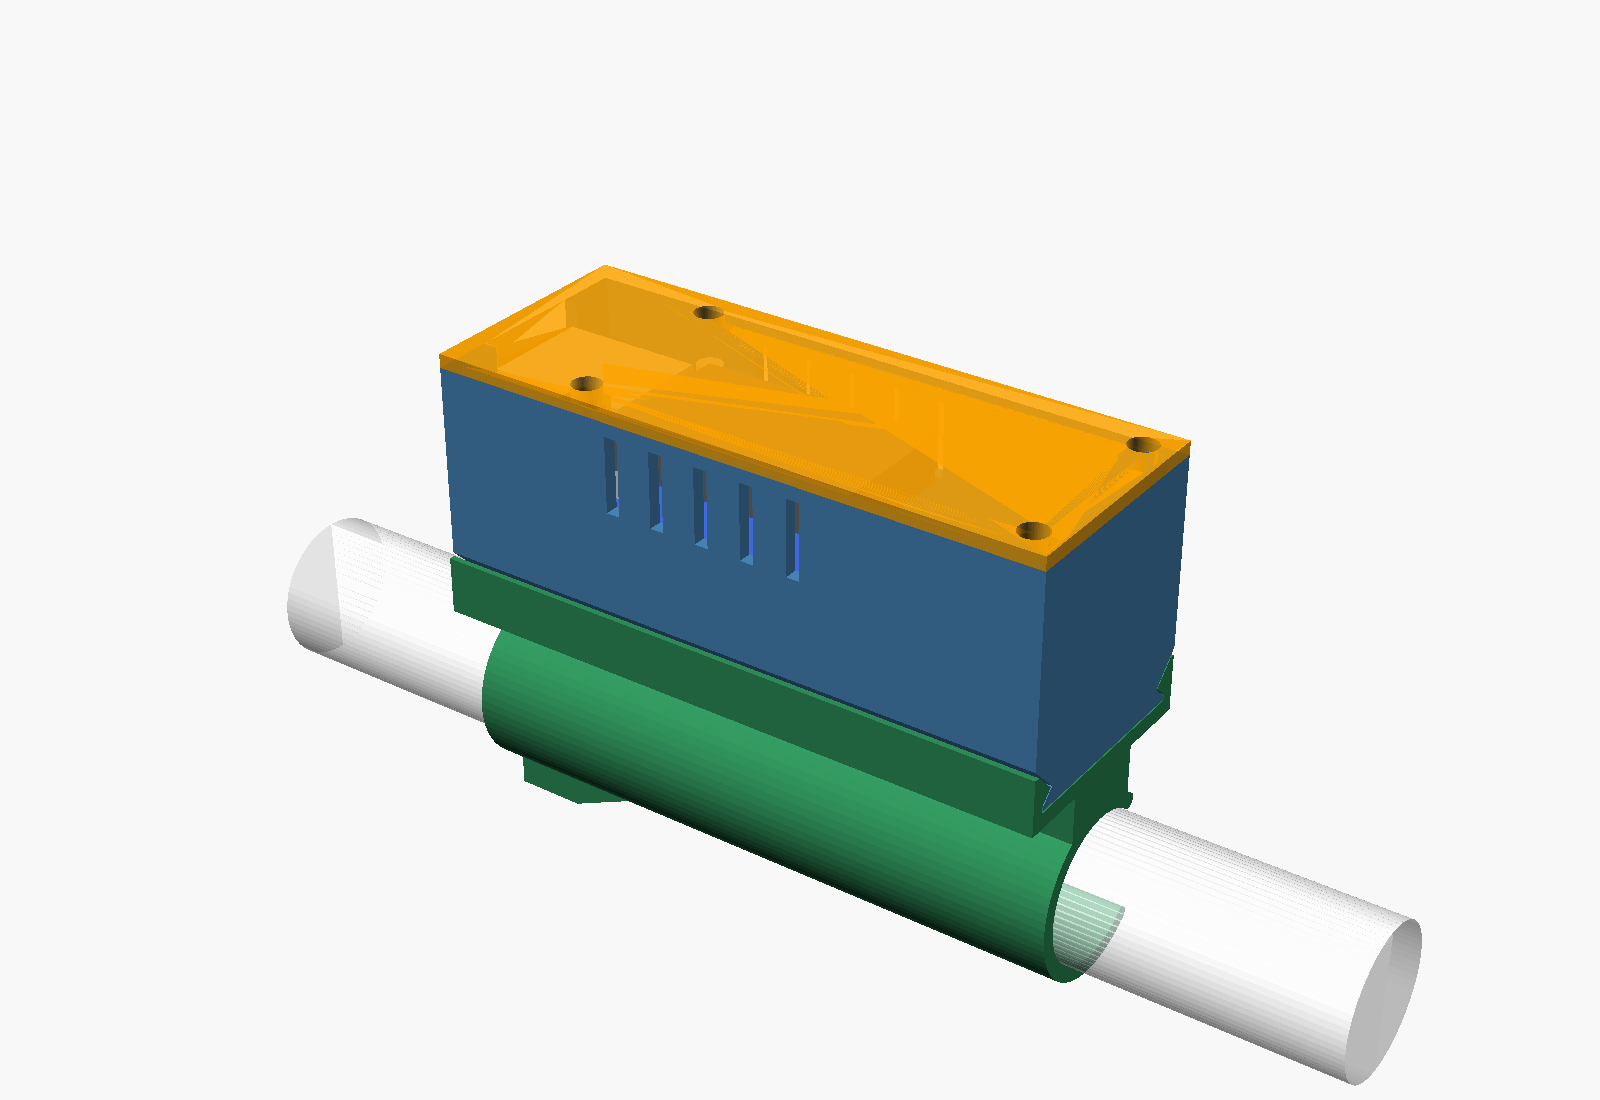
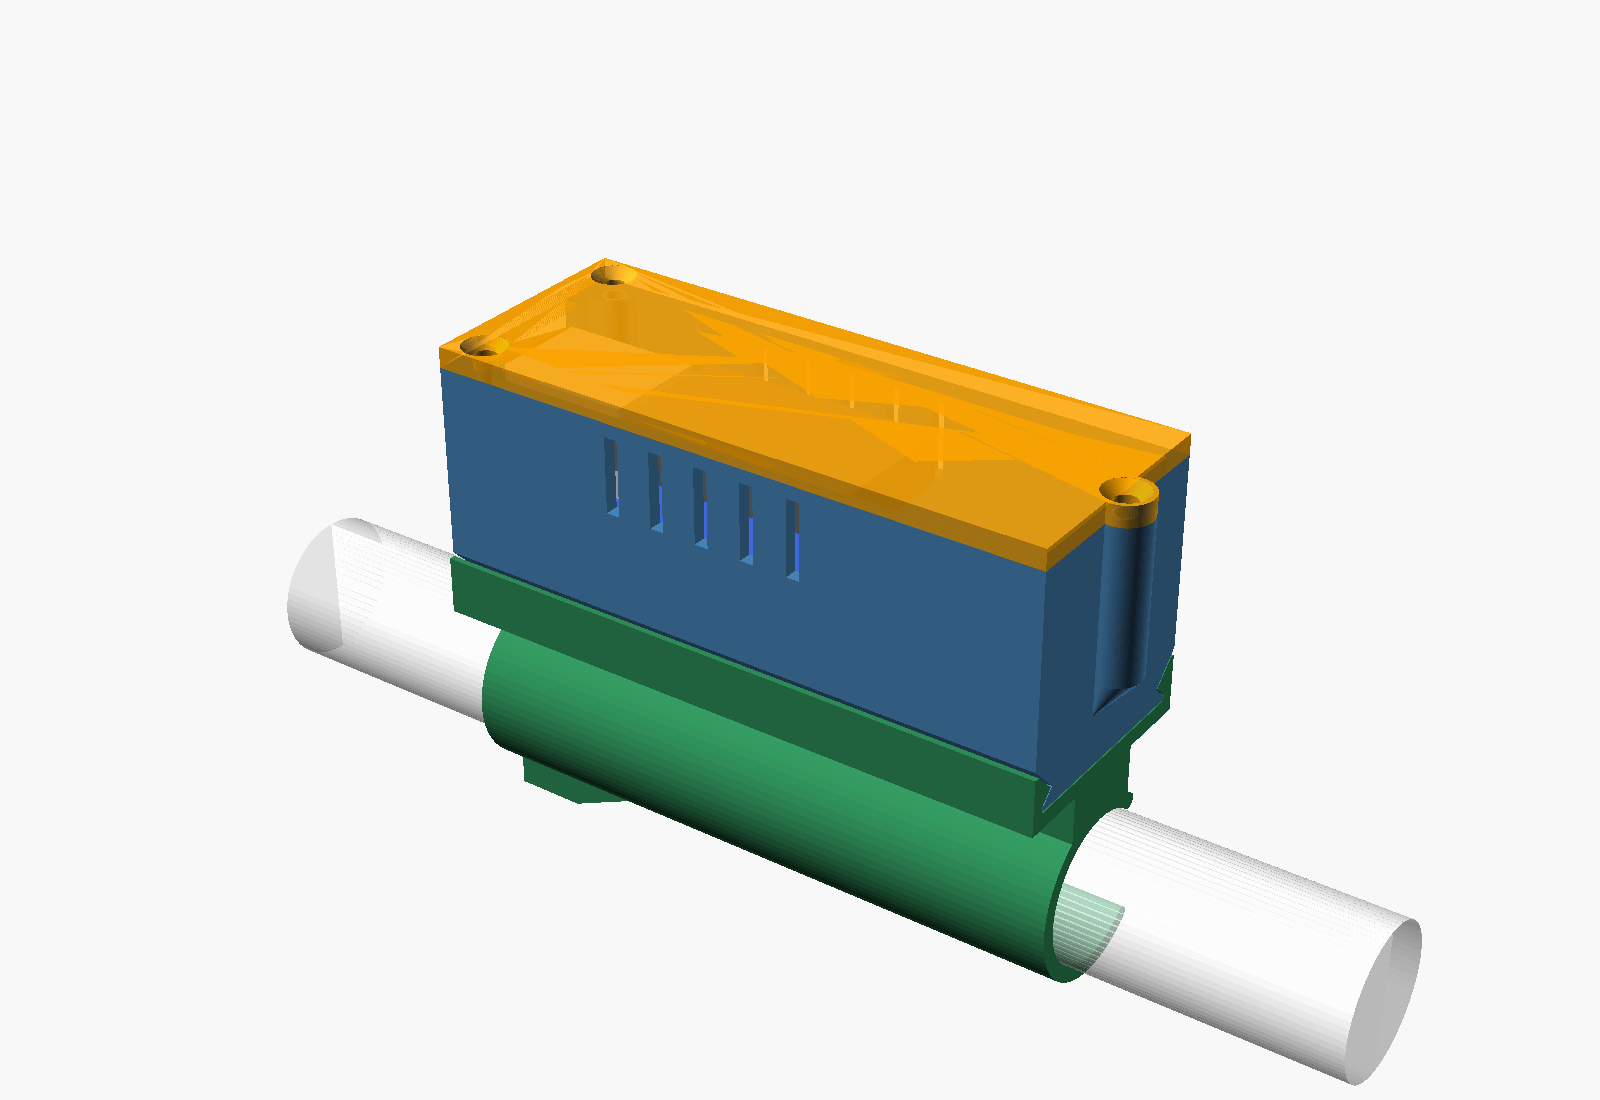
b1-proto-30x70: M3 lid screws sunk below the top, in two lids
Back to three M3 lid screws and M2 x 5 for the board (the long-M2 lid of
the previous commit is dropped). lid-countersunk is a 3 mm plate with a
cone at each hole; lid-socket-cap is 4.8 mm tall, hollow underneath, with
a pocket for each head. One body for both.

Changed region(s): [[0.5, 0.3091, 0.75, 0.6491], [0.2812, 0.2164, 0.5312, 0.4018], [0.4375, 0.4018, 0.5, 0.4327]]

diff --git a/b1-proto-30x70/README.md b/b1-proto-30x70/README.md
@@ -124,29 +124,30 @@ was printed and fitted; everything about how this board sits in it is new.
 
 | Part | What it does | How to print |
 |---|---|---|
-| `body` | Open box. The board sits on four corner posts, one under each corner hole. The Node hangs below the board, the Timer stands above it | Floor down, as exported. No supports |
-| `lid` | Four hollow legs stand on the board's corners. A long M2 screw down each leg goes through the board and into the post, so the same four screws hold the lid and the board. A tab fills the wall above the Ethernet jack | Outer face down, legs up, as exported. No supports |
+| `body` | Open box. The board sits on four corner posts, held by an M2 x 5 screw in each corner hole. The Node hangs below the board, the Timer stands above it | Floor down, as exported. No supports |
+| `lid-countersunk` | Lid for **countersunk** M3 screws: a 3 mm plate with a cone at each of its three holes, so the heads sit flush. A tab fills the wall above the Ethernet jack | Outer face down, as exported. No supports |
+| `lid-socket-cap` | Lid for **socket cap** M3 screws: 4.8 mm tall and hollow underneath, with a pocket at each hole that the whole head goes into. Same tab | Outer face down, as exported. No supports |
 | `base-flat` | Plate for sitting on the ground. Its sides are flush with the case's | Plate down, as exported. No supports |
 | `base-pvc-half-inch`, `base-pvc-three-quarter-inch` | Snap-on pipe clip with an M3 set screw against rotation, threaded straight into the plastic | Standing on its far end, as exported. No supports |
 | `base-strap` | Saddle with one tunnel for a 20 mm strap | Standing on its far end, as exported. No supports |
 
-Case 91 x 35 x 37 mm, with nothing sticking out of it. A base adds 3 mm underneath and
-nothing at the sides.
+Print one lid, whichever suits the screws you have; the body is the same for both. Case
+91 x 35 mm (96 mm over the lid's end lug) and 38 mm tall with the countersunk lid, 39 mm with
+the socket cap lid. A base adds 3 mm underneath and nothing at the sides.
 
 ![Flat base: flush with the sides](pictures/assembly-flat.png)
 
-- **One opening, for the Ethernet jack.** To reach either USB-C port, undo the four screws,
-  take the lid off and lift the board out.
-- **Four screws for everything.** Each sits on a shoulder inside its leg, below the top of
-  the lid. How far below depends on the screw: set `lid_screw_l` to the length you have and
-  the shoulder moves so that 4.5 mm of screw goes into the post. An M2 x 20 sits 9 mm down;
-  anything from about M2 x 10 to M2 x 30 works, and `build.sh` prints a warning outside
-  that.
-- **Nothing sticks out of the case.** There are no lugs. The dovetail foot is set in from
-  the sides for the same reason: the base's rails sit under the case's sloped lower edges,
-  so a base is exactly as wide as the case.
-- **With the lid off**, the board can still be screwed to its posts with M2 x 5 screws, for
-  bench work.
+The two lids, seen from underneath: countersunk, then socket cap.
+
+![Lid for countersunk screws](pictures/part-lid-countersunk.png)
+![Lid for socket cap screws](pictures/part-lid-socket-cap.png)
+
+- **One opening, for the Ethernet jack.** To reach either USB-C port, take the lid off, undo
+  the four M2 screws and lift the board out.
+- **Nothing sticks out of the long sides.** The lid's screws are inside the two Ethernet-end
+  corners and on the far end wall, so a base is exactly as wide as the case. The dovetail
+  foot is set in from the sides for the same reason: the base's rails sit under the case's
+  sloped lower edges.
 - **A base slides on from the Ethernet end** until the case meets the stop at the base's
   Ethernet end, and clicks. A pull on the Ethernet cable pushes the case into the stop. Pull
   the case towards the far end to take it off.
@@ -156,9 +157,10 @@ nothing at the sides.
 
 ### Hardware
 
-- 4 x long M2 screw, all the same length (`lid_screw_l`, 20 mm as drawn): lid and board
-  together. They cut their own thread in the posts.
-- Optional, 4 x M2 x 5: the board alone, with the lid off.
+- 4 x M2 x 5 screw: board to the corner posts. They cut their own thread.
+- 3 x M3 screw for the lid, heads below its top: **countersunk** M3 x 10 or x 12 with
+  `lid-countersunk`, or **socket cap** M3 x 8 or x 10 with `lid-socket-cap`. They cut their
+  own thread in the body. Button heads fit the socket cap lid's pockets too, sitting deeper.
 - Pipe base only: 1 x M3 screw, 8 or 10 mm, as a set screw. It cuts its own thread in the
   clip; there is no nut.
 
@@ -174,7 +176,6 @@ Parameters at the top of `case.scad`.
 
 | Parameter | Value | What to measure |
 |---|---|---|
-| `lid_screw_l` | 20 | **The length of your long M2 screws, under the head.** Set it before exporting |
 | `mh_inset` | 2.0 | Centre of a corner mounting hole to each edge of the protoboard. Measured with a ruler on the built board, not calipers. The posts and their screw holes follow it |
 | `under_h` | 10 | Room below the protoboard. Measured on the built board: 7 mm from the underside of the protoboard to the top of the Node's USB-C, its highest point. That leaves 3 mm, which the antenna lead shares |
 | `board_t` | 1.6 | Protoboard thickness |
@@ -190,11 +191,10 @@ parts, and these in particular.
 
 - **Corner screws beside the Timer.** The two corner holes at the `A` end are about 2.5 mm
   from the Timer board's edge. On the built board it is tight but nothing covers them.
-- **The two legs beside the Timer** stop 0.3 mm short of the Timer board's edge, which leaves
-  the head's bore open on that side. The two far legs are whole tubes.
-- **The legs** are 21 mm tall and 6 mm wide, printed standing on the lid. They are the
-  delicate part until the case is screwed together.
-- **The screw's shoulder** is a small ring printed as an overhang inside each leg.
+- **The lid columns in the Ethernet-end corners** leave 0.5 mm to the Timer board's edge.
+- **The sunk heads leave thin edges.** At the two corner screws, the countersunk lid has
+  0.6 mm of plastic between the cone and the lid's long edge, and the socket cap lid 0.8 mm
+  between the pocket and that edge. They are in the lid, not the walls.
 - **The wires on top** pass the corner screw heads and the outer rows; `head` and the
   2.5 mm beside the Timer are all the room they have.
 - **The click tongue and the clips** carry over from a printed case, but on a narrower base.
